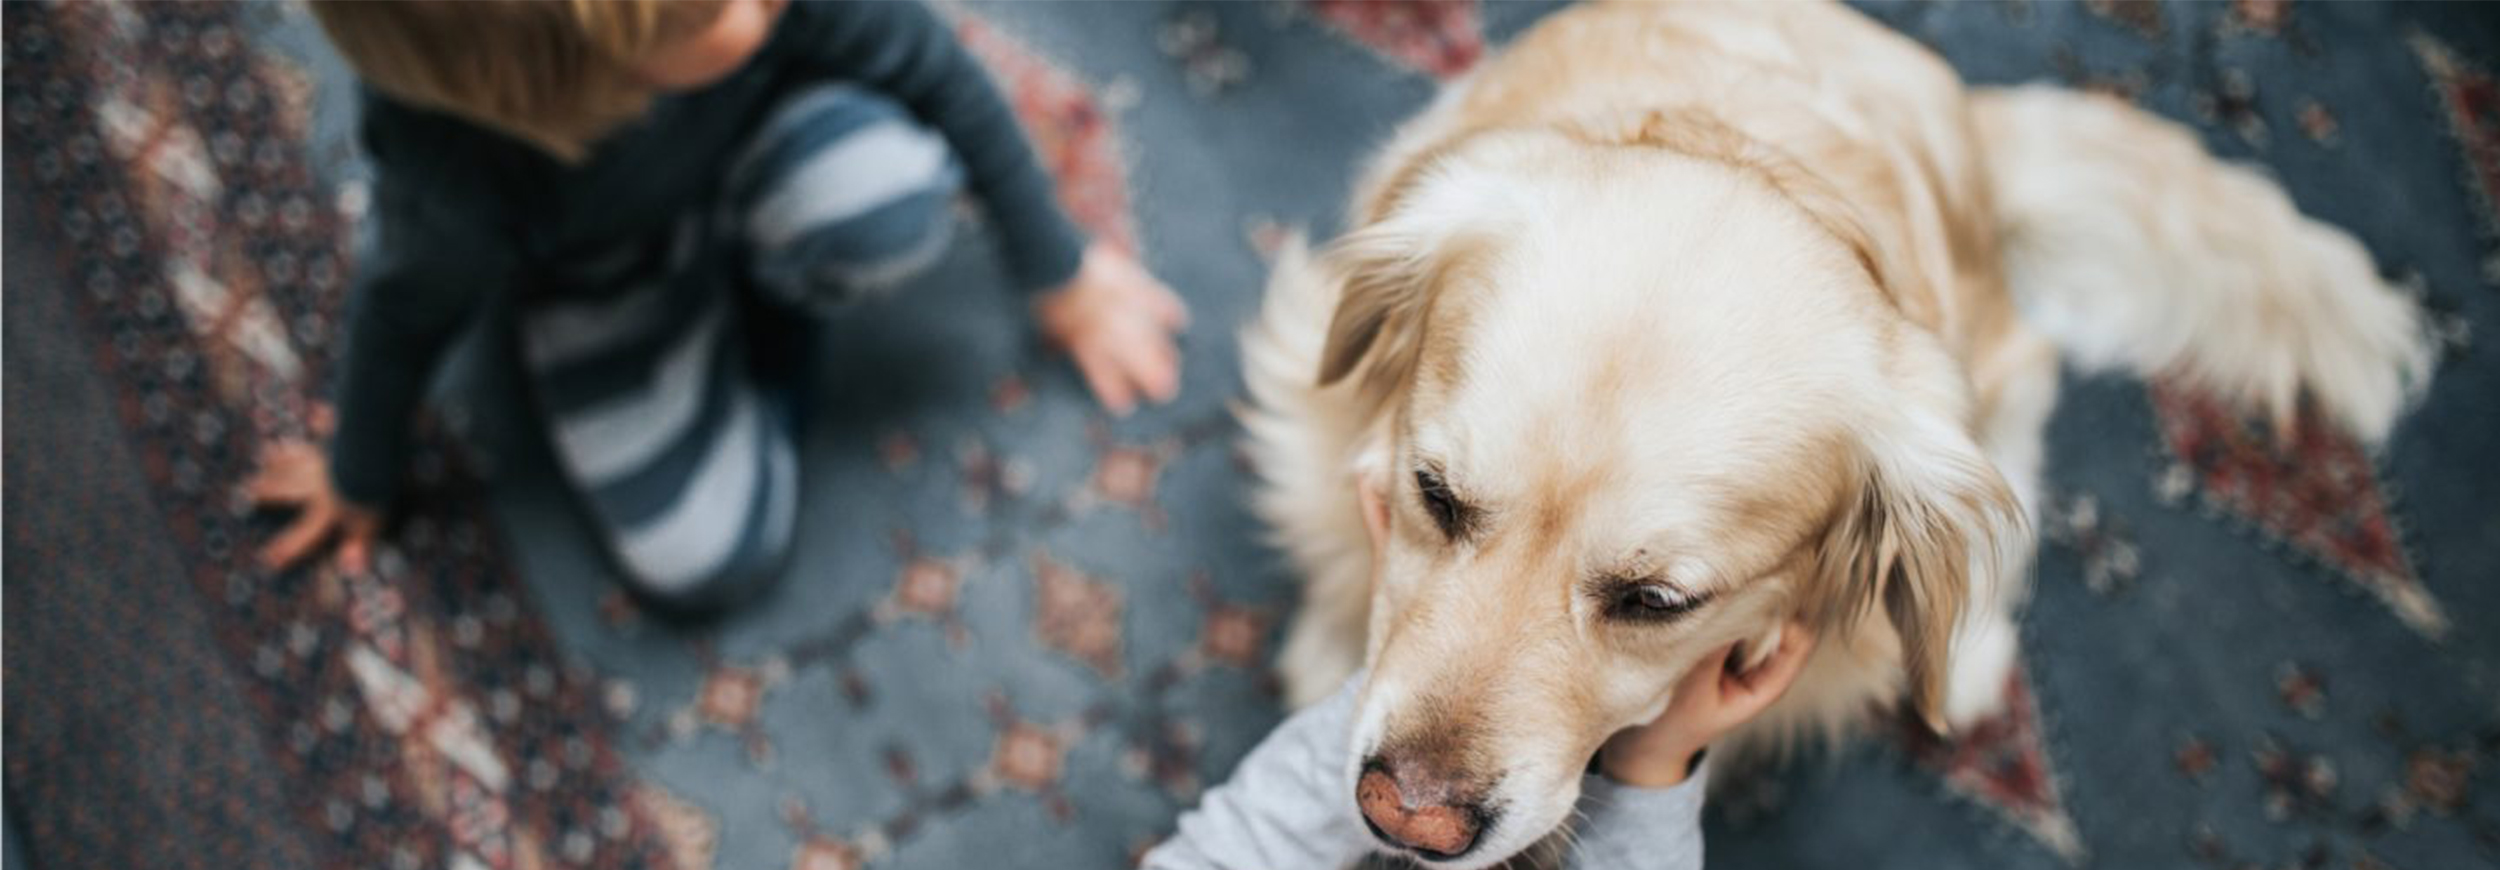
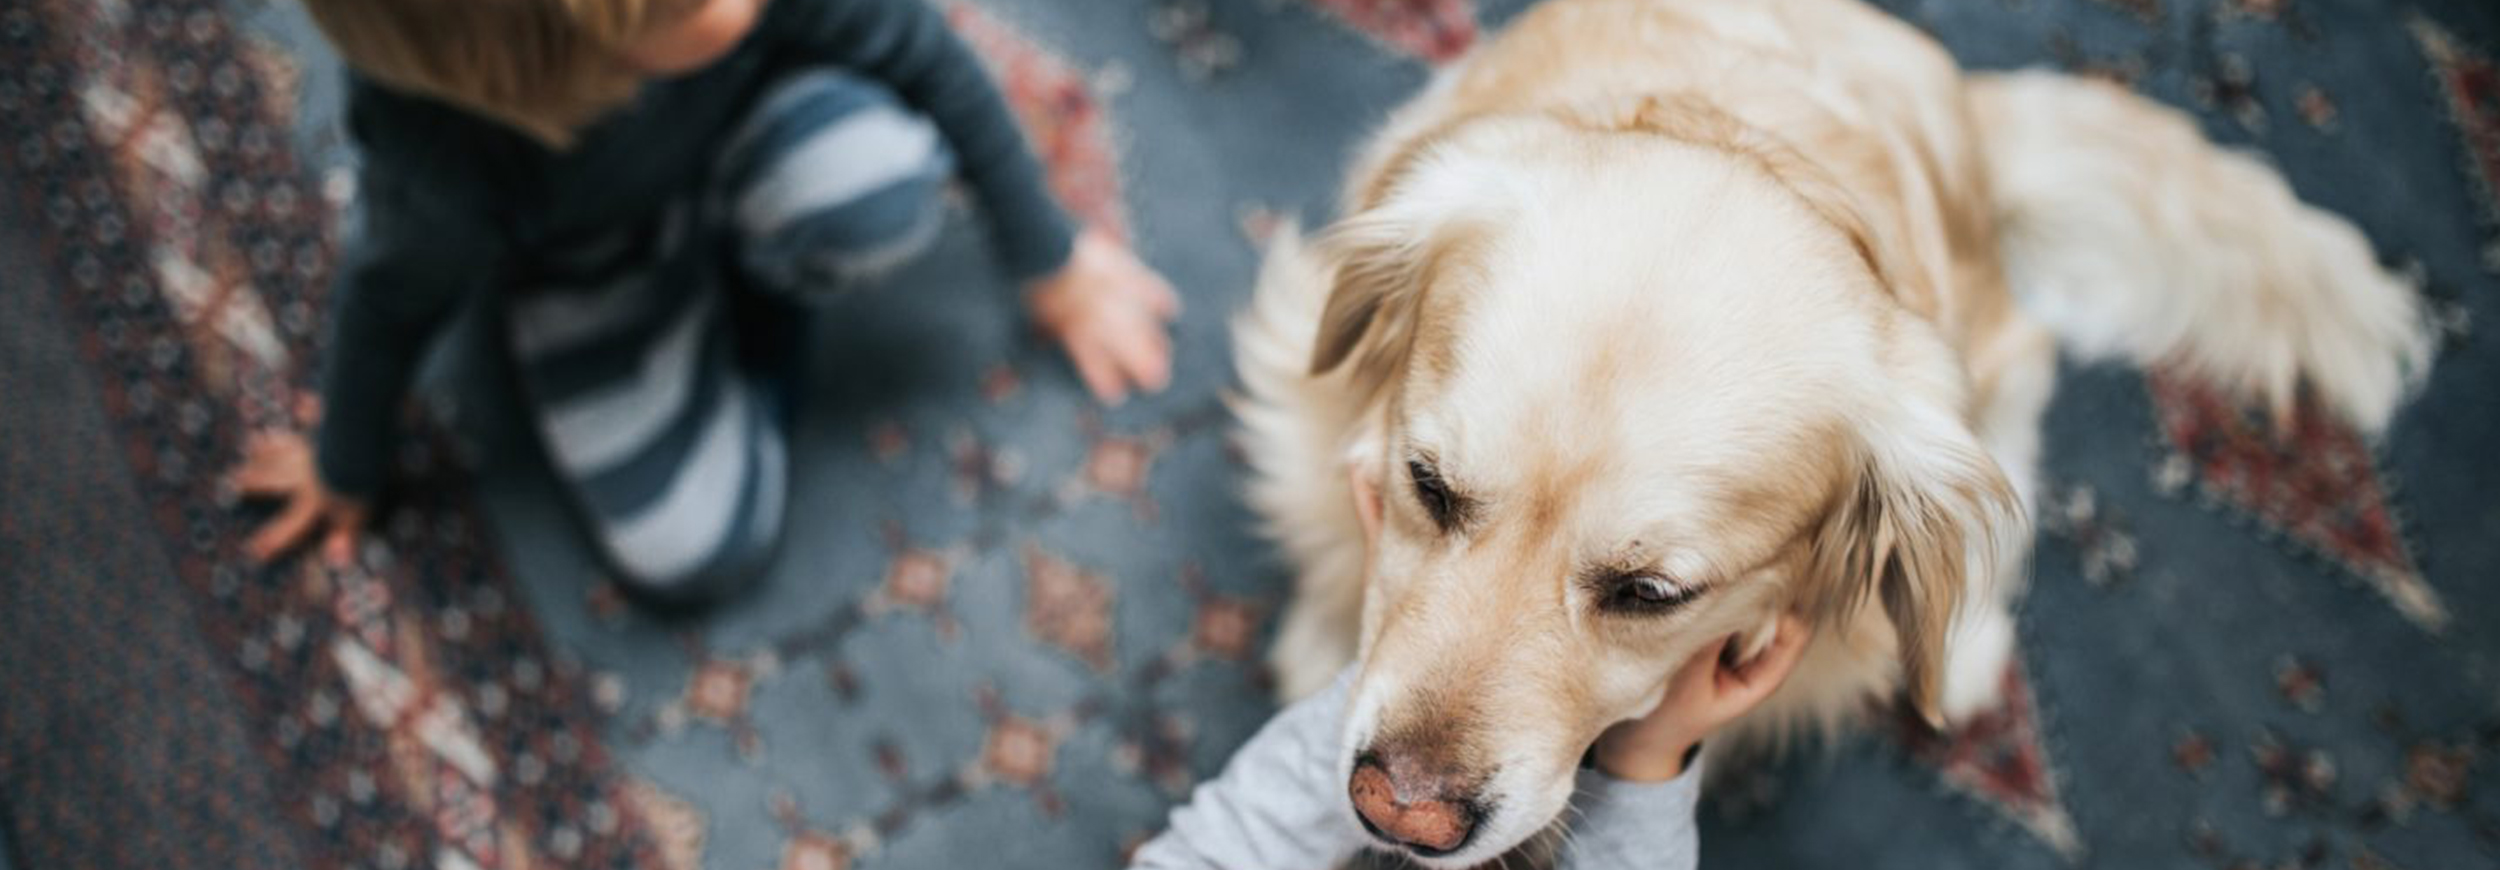
change in top header

diff --git a/client/src/components/Headertop/index.js b/client/src/components/Headertop/index.js
@@ -1,5 +1,6 @@
 import React from "react";
 import images from "../../images"
+import "./style.css";
 
 function Headertop() {
   return (
@@ -7,11 +8,24 @@ function Headertop() {
       <div className="container">
         <div className="row">
           <div className="col-sm-4">
-          <img src={`${images[1]}`} alt="banner" width="100%"/>
+          <img src={`${images[1]}`} alt="logo" width="100%" className="logo"/>
 
           </div>
           <div className="col-sm-8">
-           
+            <ul className="list-inline social-media-link">
+              <li className="list-inline-item">
+                <p><i className="fab fa-instagram" aria-hidden="true"></i></p>
+              </li>
+              <li className="list-inline-item">
+                <p><i className="fab fa-facebook-square" aria-hidden="true"></i></p>
+              </li>
+              <li className="list-inline-item">
+                <p><i className="fab fa-twitter" aria-hidden="true"></i></p>
+              </li>
+              <li className="list-inline-item">
+                <p><i className="fab fa-youtube" aria-hidden="true"></i></p>
+              </li>
+            </ul>
           </div>
         </div>
       </div>

diff --git a/client/src/style.css b/client/src/style.css
@@ -97,10 +97,10 @@ nav button{
     margin-bottom: 0;
     font-weight: 500;
 }
-.contact-right-section .social-media-link p{
+.social-media-link p{
     background-color: #fff;
 }
-.contact-right-section .social-media-link i{
+.social-media-link i{
     border: 1px solid #fff;
     border-radius: 0;
     text-align: center;
@@ -108,23 +108,25 @@ nav button{
     margin-right: 0;
     padding-top: 5px;
     font-size: 28px;
+    width: 40px;
+    height: 40px;
     box-shadow: none;
     border: 1px solid #e0e3e7;
 }
-.contact-right-section .social-media-link i.fa-instagram{
+.social-media-link i.fa-instagram{
     background: -webkit-linear-gradient(#ff5757 , #bd00de);
     -webkit-background-clip: text;
     -webkit-text-fill-color: transparent;
 }
-.contact-right-section .social-media-link i.fa-facebook-square{
+.social-media-link i.fa-facebook-square{
     color: #395499;
     background-color: #fff;
 }
-.contact-right-section .social-media-link i.fa-twitter{
+.social-media-link i.fa-twitter{
     color: #1c9deb;
     background-color: #fff;
 }
-.contact-right-section .social-media-link i.fa-youtube{
+.social-media-link i.fa-youtube{
     color: #f70000;
     background-color: #fff;
 }

diff --git a/client/src/components/Banner/style.css b/client/src/components/Banner/style.css
@@ -1,4 +1,4 @@
-.carousel-inner img {
+#demo .carousel-inner img {
     width: 100%;
     height: 100%;
   }
@@ -13,4 +13,33 @@
   left: 0;
   bottom: -18px;
   background-repeat: repeat-x;
+}
+#demo .carousel-caption{
+  top:40%;
+}
+#demo .carousel-indicators{
+  bottom: 10px;
+}
+#demo .carousel-caption h3,
+#demo .carousel-caption p{
+  text-shadow: 1px 2px 6.5px #000;
+}
+@media only screen and (max-width: 768px) {
+  #demo::after{
+    height: 48px;
+  }
+  #demo .carousel-caption{
+    top: auto;
+  }
+  #demo .carousel-indicators{
+    bottom: 10px;
+  }
+}
+@media only screen and (max-width: 480px) {
+  #demo .carousel-caption h3{
+    font-size: 1rem;
+  }
+  #demo .carousel-caption p{
+    font-size: .7rem;
+  }
 }

diff --git a/client/src/pages/Home.js b/client/src/pages/Home.js
@@ -24,7 +24,7 @@ render() {
             <Mainheading color="dark">Best hotel for your pet!</Mainheading>
             <h5 className="text-center">We offer a broad range of services to pamper your pet.</h5>
             <div className="text-center">
-                <a className="btn btn-info" href="/booknow"> Book now</a>
+                <a className="btn btn-info" href="/booknow"> Book Now</a>
             </div>
           </Col>
         </Row>

diff --git a/client/src/components/Mainheading/style.css b/client/src/components/Mainheading/style.css
@@ -4,6 +4,7 @@
   .main-heading h1{
     margin-bottom: 1.5em;
     text-align: center;
+    text-shadow: 1px 0px 1.5px #000;
     /* font-size: 2em; */
   }
   .main-heading .tile_underline {
@@ -58,12 +59,15 @@
     min-width: 2em;
     left: 0;
     bottom: -7px;
+    
   }
   .main-heading .dark{
     color: #000b88;
+    
   }
   .main-heading .light{
     color:#fff;
+    
 }
 .main-heading .light:after{
     border-top: 1px solid #a2a2a2;

diff --git a/client/src/components/Banner/index.js b/client/src/components/Banner/index.js
@@ -1,6 +1,6 @@
 import React from "react";
 import "./style.css";
-import banner1 from "../../images/banner3.jpg"
+import banner1 from "../../images/banner1.jpg"
 import banner2 from "../../images/banner2.jpg"
 import banner3 from "../../images/banner3.jpg"
 import banner4 from "../../images/banner4.jpg"

diff --git a/client/src/components/ImageSlider/style.css b/client/src/components/ImageSlider/style.css
@@ -38,3 +38,12 @@
   color: #fff;
   background-size: cover;
 }
+@media only screen and (max-width: 768px) {
+  .image-slider-box{ 
+  overflow: hidden;
+}
+#carouselExampleFade .pet-name{
+  font-size: 10px;
+  padding: 5px;
+}
+}

diff --git a/client/src/components/Headertop/style.css b/client/src/components/Headertop/style.css
@@ -1,0 +1,11 @@
+.header-top {
+    padding: 15px 0px 8px;
+}
+.header-top .logo{
+    max-width: 215px;
+}
+.header-top .social-media-link{
+    float: right;
+    margin-bottom: 0px;
+    margin-top: 12px;
+}
